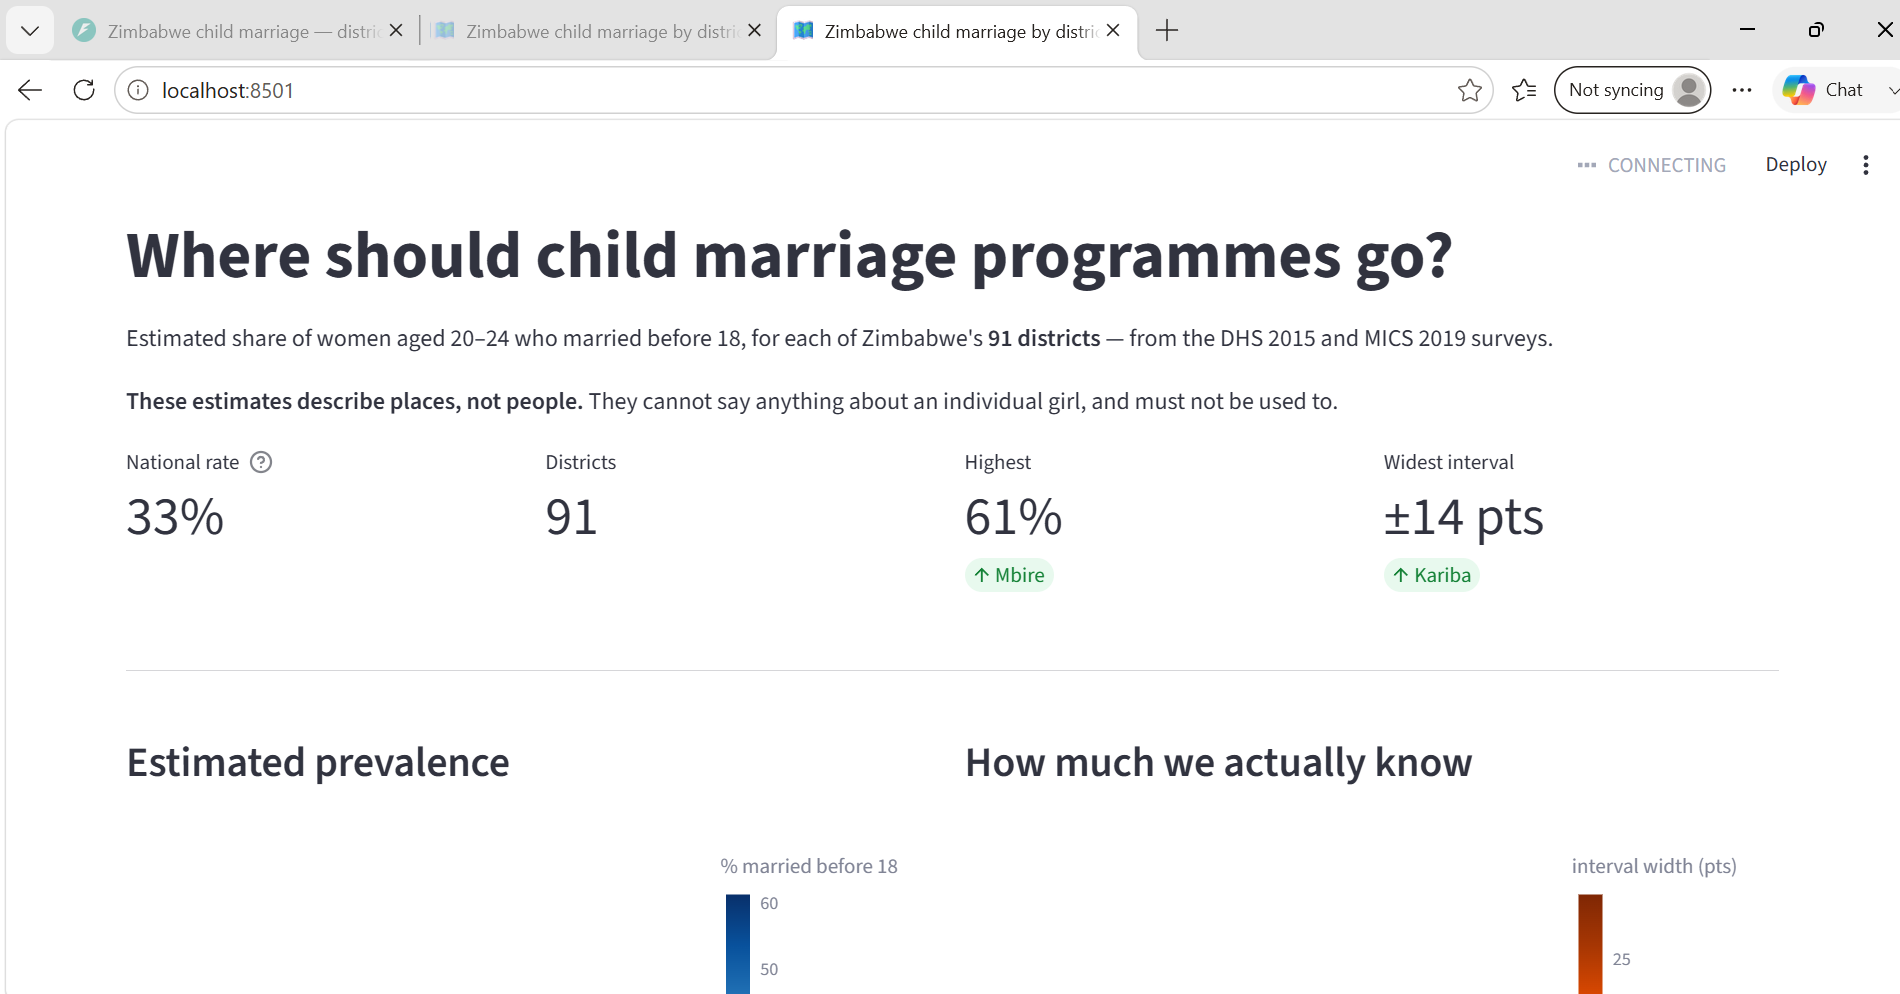
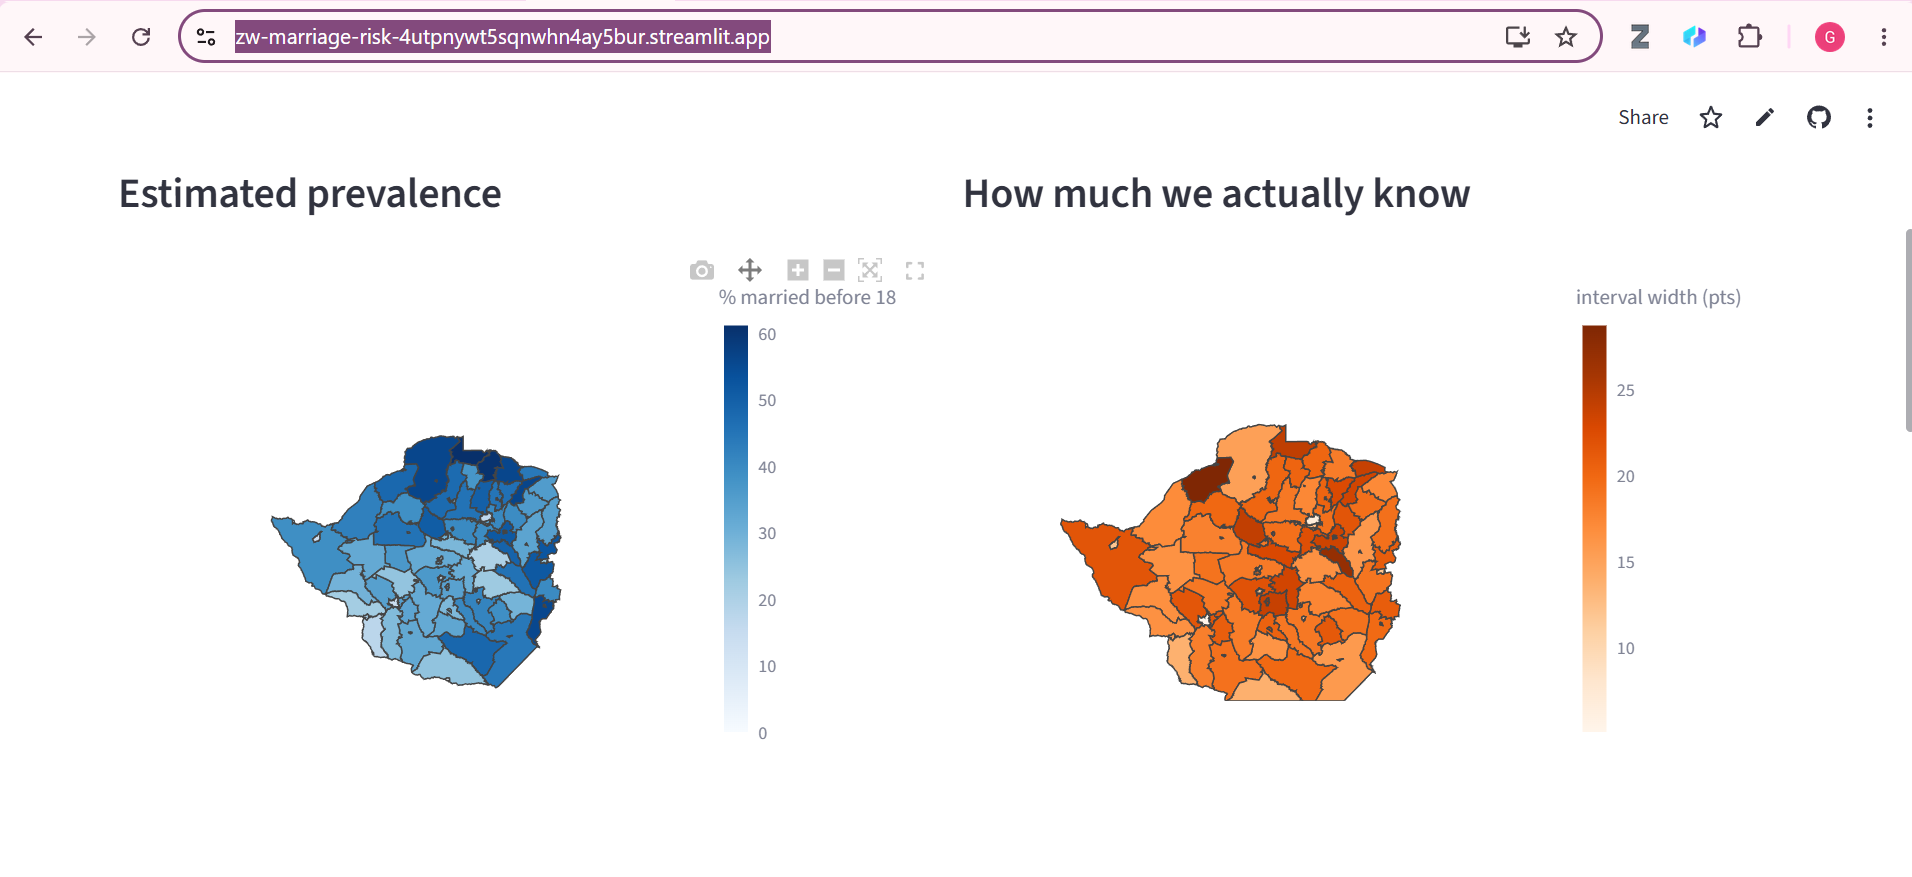
docs: add live links and screenshot

diff --git a/README.md b/README.md
@@ -11,8 +11,7 @@ District-level prevalence estimates with honest uncertainty.
 
 ---
 
-![The map](outputs/screenshot.png)
-
+![The map](outputsscreenshot.png)
 ---
 
 ## The problem
